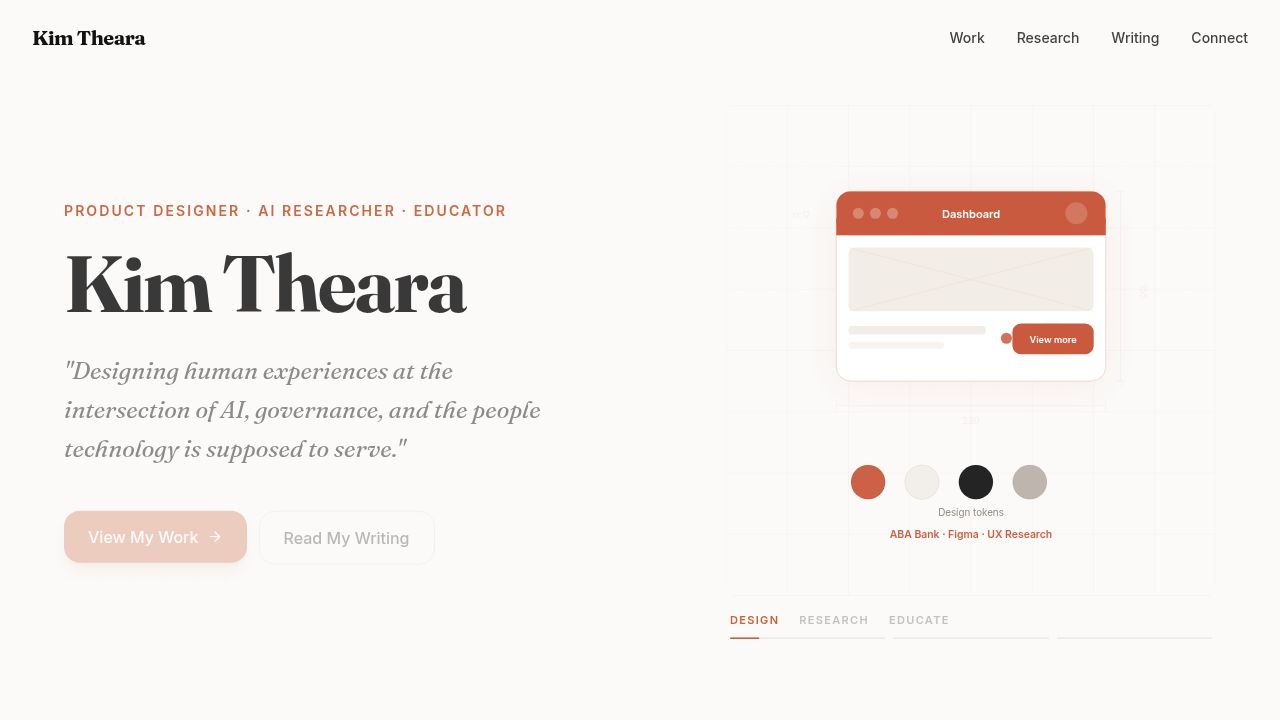
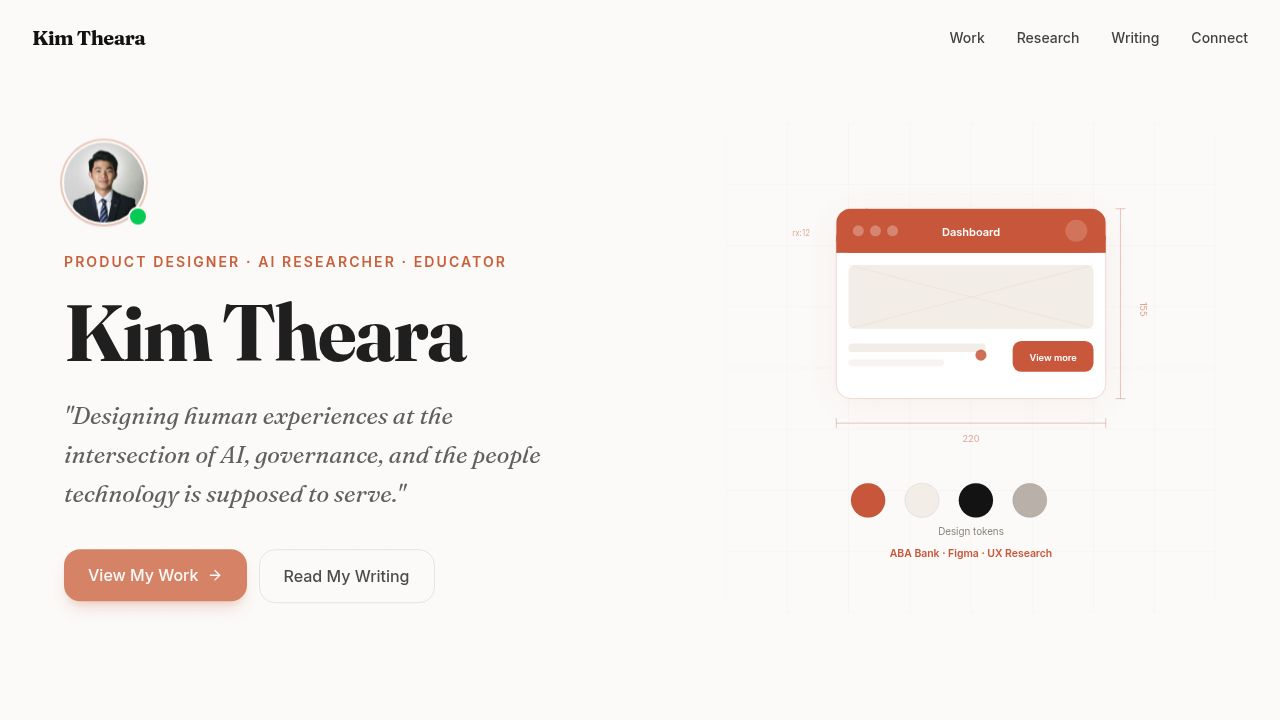
Update personal portfolio website with new sections and corrected information
Modify About, Community, Hero, HeroVisual, and Research components: update student count, add education section, refine AI Safety Asia role description, and incorporate a portrait photo in the hero section.

Replit-Commit-Author: Agent
Replit-Commit-Session-Id: 96013f20-05a8-491d-b19b-b114c3732afb
Replit-Commit-Checkpoint-Type: full_checkpoint
Replit-Commit-Event-Id: c66db6f3-7dff-47d0-91fe-aed868218642
Replit-Commit-Screenshot-Url: https://storage.googleapis.com/screenshot-production-us-central1/6d178bc2-422c-44cc-87ff-9f3dc5e4498f/96013f20-05a8-491d-b19b-b114c3732afb/n7fgD0j
Replit-Helium-Checkpoint-Created: true

diff --git a/artifacts/portfolio/src/components/sections/Research.tsx b/artifacts/portfolio/src/components/sections/Research.tsx
@@ -75,7 +75,7 @@ export function Research() {
             <div className="flex flex-col sm:flex-row sm:items-center justify-between gap-3 mb-5">
               <div>
                 <span className="text-xs font-semibold text-muted-foreground uppercase tracking-wider block mb-1">
-                  Contributor
+                  Website & Dashboard Designer
                 </span>
                 <span className="text-foreground font-medium">AI Safety Asia</span>
               </div>
@@ -85,26 +85,27 @@ export function Research() {
             </div>
 
             <h3 className="font-serif text-xl lg:text-2xl font-bold text-foreground leading-snug mb-4">
-              AI Safety Asia — 2025 Annual Report Contributor
+              Designing the face of Southeast Asia's AI safety movement
             </h3>
 
             <p className="text-foreground/75 leading-relaxed mb-7 text-sm sm:text-base">
-              Contributed research insights on how AI governance frameworks affect public-interest design decisions in Southeast Asia. Part of a broader effort to make AI safety conversations accessible and actionable for the region.
+              Designed the website and key dashboards for AI Safety Asia — the organisation behind Southeast Asia's leading AI governance capacity-building work. Their 2025 flagship report, <em>AI Safety Governance: The Southeast Asian Way</em>, was co-published with the Brookings Institution and covered AI policy across 11 countries. The goal: make complex governance work accessible, navigable, and trusted by the region's policymakers and public alike.
             </p>
 
             <div className="flex flex-wrap items-center justify-between gap-4 pt-5 border-t border-border/60">
               <div className="flex flex-wrap gap-2">
-                <span className="text-xs text-muted-foreground font-medium border border-border px-2.5 py-1 rounded-md">AI Safety</span>
-                <span className="text-xs text-muted-foreground font-medium border border-border px-2.5 py-1 rounded-md">Governance</span>
+                <span className="text-xs text-muted-foreground font-medium border border-border px-2.5 py-1 rounded-md">Web Design</span>
+                <span className="text-xs text-muted-foreground font-medium border border-border px-2.5 py-1 rounded-md">Dashboard UI</span>
+                <span className="text-xs text-muted-foreground font-medium border border-border px-2.5 py-1 rounded-md">AI Governance</span>
                 <span className="text-xs text-muted-foreground font-medium border border-border px-2.5 py-1 rounded-md">Southeast Asia</span>
               </div>
               <a
-                href="https://aisafety.asia"
+                href="https://www.aisafety.asia"
                 target="_blank"
                 rel="noopener noreferrer"
                 className="flex items-center gap-1 text-sm font-medium text-foreground hover:text-primary transition-colors"
               >
-                Visit AI Safety Asia <ArrowUpRight size={14} />
+                Visit aisafety.asia <ArrowUpRight size={14} />
               </a>
             </div>
           </motion.div>

diff --git a/artifacts/portfolio/src/components/sections/About.tsx b/artifacts/portfolio/src/components/sections/About.tsx
@@ -9,7 +9,7 @@ export function About() {
   const stats = [
     { value: "5+", label: "Years of\nprofessional experience" },
     { value: "2", label: "Countries\nworked in" },
-    { value: "3,000+", label: "Students taught\ndesign & AI" },
+    { value: "600+", label: "Students taught\ndesign & AI" },
     { value: "981", label: "Claps on\nmost-read article" }
   ];
 
@@ -60,6 +60,26 @@ export function About() {
               </span>
             </div>
           ))}
+        </motion.div>
+
+        {/* Education */}
+        <motion.div
+          initial="hidden" whileInView="visible" viewport={{ once: true, margin: "-80px" }} variants={fadeUp}
+          className="mb-12"
+        >
+          <span className="text-xs font-semibold text-primary uppercase tracking-[0.15em] block mb-5">Education</span>
+          <div className="grid grid-cols-1 sm:grid-cols-2 gap-4">
+            <div className="bg-card border border-border/60 rounded-xl px-6 py-5">
+              <span className="text-[11px] font-semibold text-muted-foreground uppercase tracking-wider block mb-1.5">In Progress · 2024 – Present</span>
+              <div className="font-serif text-lg font-bold text-foreground leading-snug">MBA — Global Innovation Management</div>
+              <div className="text-sm text-foreground/70 mt-1">National University of Management (NUM), Phnom Penh</div>
+            </div>
+            <div className="bg-card border border-border/60 rounded-xl px-6 py-5">
+              <span className="text-[11px] font-semibold text-muted-foreground uppercase tracking-wider block mb-1.5">Bachelor's Degree · Class of 2022</span>
+              <div className="font-serif text-lg font-bold text-foreground leading-snug">Bachelor of Science — Software Engineering</div>
+              <div className="text-sm text-foreground/70 mt-1">Kirirom Institute of Technology, Cambodia</div>
+            </div>
+          </div>
         </motion.div>
 
         {/* Affiliations */}

diff --git a/artifacts/portfolio/src/components/sections/Hero.tsx b/artifacts/portfolio/src/components/sections/Hero.tsx
@@ -47,6 +47,23 @@ export function Hero() {
           {/* Text content */}
           <div className="flex-1 flex flex-col items-center md:items-start text-center md:text-left md:order-1">
 
+            {/* Portrait avatar */}
+            <motion.div
+              custom={1.5} initial="hidden" animate="visible" variants={fadeUp}
+              className="mb-5"
+            >
+              <div className="relative inline-block">
+                <div className="w-16 h-16 sm:w-20 sm:h-20 rounded-full overflow-hidden ring-2 ring-primary/30 ring-offset-2 ring-offset-background shadow-md">
+                  <img
+                    src="https://www.seaobservatory.org/_next/image?url=%2Fteam%2Fkim_theara.jpg&w=384&q=75"
+                    alt="Kim Theara"
+                    className="w-full h-full object-cover object-top"
+                  />
+                </div>
+                <span className="absolute -bottom-1 -right-1 w-5 h-5 bg-green-500 border-2 border-background rounded-full" title="Available for work" />
+              </div>
+            </motion.div>
+
             <motion.div custom={2} initial="hidden" animate="visible" variants={fadeUp} className="mb-4">
               <span className="text-xs sm:text-sm font-semibold text-primary uppercase tracking-[0.15em]">
                 Product Designer · AI Researcher · Educator

diff --git a/artifacts/portfolio/src/components/sections/Community.tsx b/artifacts/portfolio/src/components/sections/Community.tsx
@@ -54,7 +54,7 @@ export function Community() {
           <div className="flex-1 lg:max-w-md">
             <div className="space-y-5 text-base sm:text-lg text-foreground/75 leading-relaxed mb-12">
               <p>
-                Since 2023, I've been teaching UX design and generative AI across Cambodia — in academies, universities, and community classrooms. Some of the most meaningful moments of my career have happened in front of a whiteboard, not a screen.
+                Since 2023, I've been teaching Digital Marketing and UX/UI Design across Cambodia — in academies, universities, and community classrooms. Over 600 students and counting. Some of the most meaningful moments of my career have happened in front of a whiteboard, not a screen.
               </p>
               <p>
                 Design education in Southeast Asia still has wide gaps. I don't think that changes by waiting.

diff --git a/artifacts/portfolio/src/components/sections/HeroVisual.tsx b/artifacts/portfolio/src/components/sections/HeroVisual.tsx
@@ -235,7 +235,7 @@ function ResearchFrame({ reduced }: { reduced: boolean }) {
       <motion.g initial={{ opacity: 0, y: 6 }} animate={{ opacity: 1, y: 0 }} transition={{ delay: 0.9 }}>
         <rect x={72} y={356} width={256} height={22} rx={5} fill="rgba(200,84,56,0.06)" />
         <text x={200} y={371} textAnchor="middle" fontSize={8} fontWeight="600" fill={T} fontFamily="Inter, sans-serif">
-          11 jurisdictions · 317+ policies · 3,000+ students
+          11 jurisdictions · 317+ policies · 600+ students taught
         </text>
       </motion.g>
     </svg>
